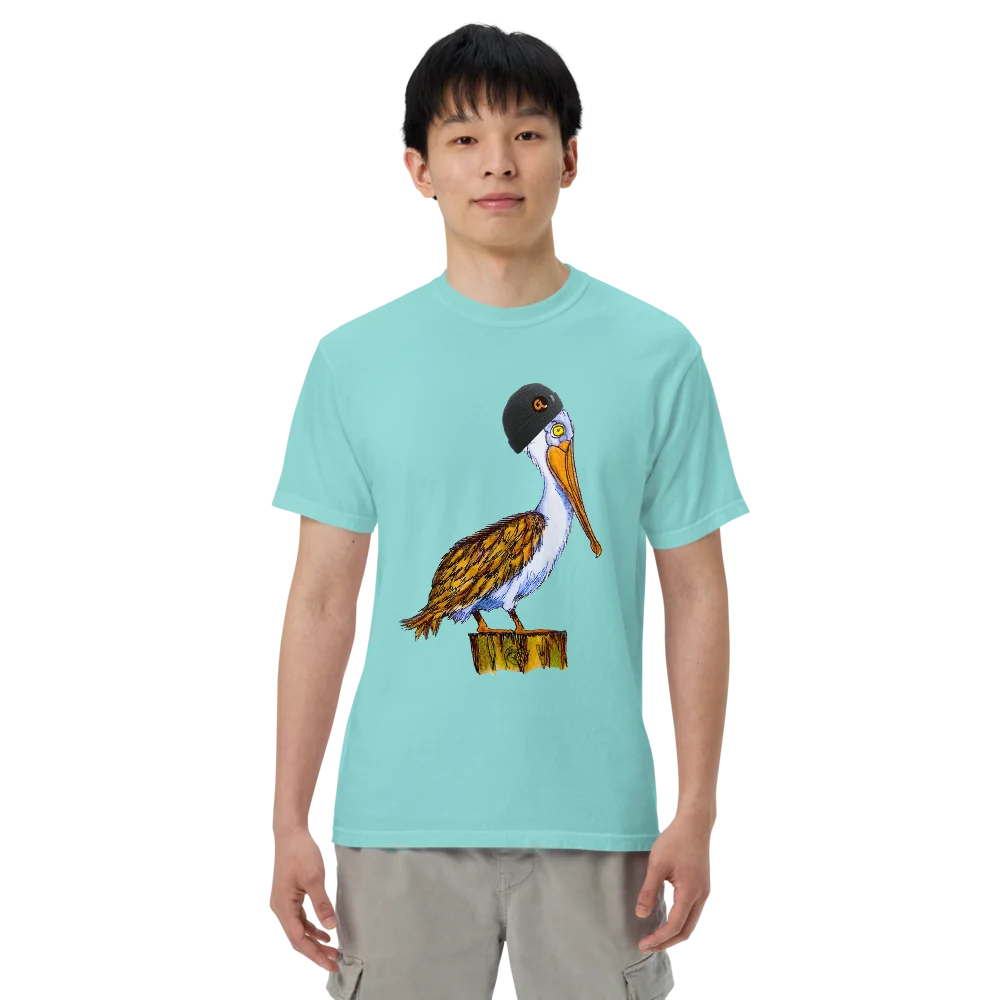
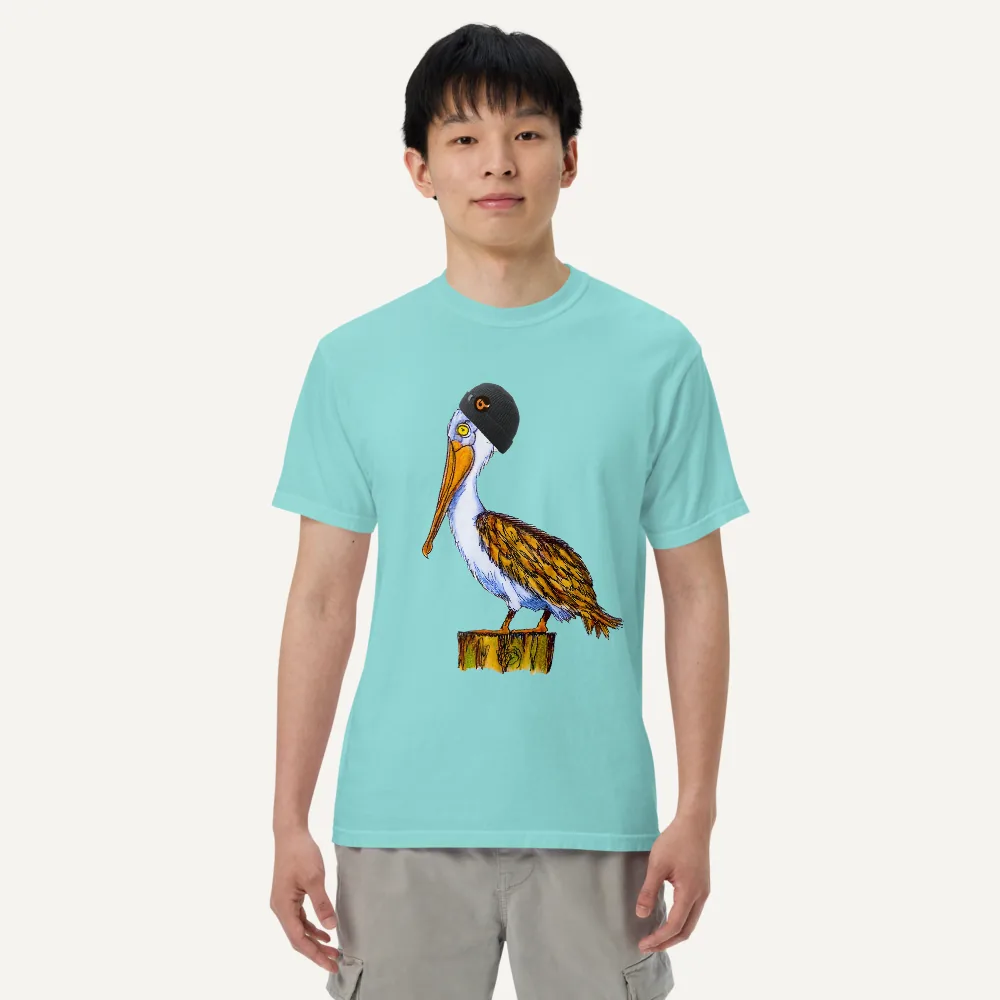
fix(preview): artist previews show the final designs — real Printful mockups (snapback with the fixed star embroidery, star tees, alpaca at 97%, left-facing beanie pelican, crop top) and the new CC0 Day sky

Changed region(s): [[0.403, 0.372, 0.62, 0.682]]

diff --git a/lib/previews.ts b/lib/previews.ts
@@ -68,8 +68,8 @@ export const previews: Preview[] = [
       img(ALPACA, "dusk-tee", 1200, 1129, "All-over tee: the alpaca on a dusk sky", "Dusk all-over tee", true),
       img(ALPACA, "tee-on-model", 1000, 1000, "Classic tee with the alpaca, worn", "Classic tee"),
       img(ALPACA, "tee-flat", 1000, 1000, "Classic tee with the alpaca, laid flat", "Classic tee, flat"),
-      img(ALPACA, "navy-polo", 840, 1000, "Navy polo with an embroidered alpaca on the chest", "Embroidered navy polo"),
-      img(ALPACA, "tee-closeup", 1000, 1000, "Close-up of the alpaca print", "Close-up"),
+      img(ALPACA, "navy-polo", 1000, 1000, "Navy polo with an embroidered alpaca on the chest", "Embroidered navy polo"),
+      img(ALPACA, "tee-closeup", 560, 560, "Close-up of the alpaca print", "Close-up"),
     ],
   },
   {
@@ -82,12 +82,15 @@ export const previews: Preview[] = [
       step(STAR, "coloured", 1094, 1200, "The star coloured in yellow with turquoise stars", "Coloured by MOP"),
     ],
     gallery: [
-      img(STAR, "original-2016-tee", 1200, 1095, "Red tee with the coloured star, as it first sold in 2016", "Original 2016 tee", true),
+      img(STAR, "original-2016-tee", 1000, 1000, "Red tee with the coloured star, as it first sold in 2016", "Original 2016 red tee"),
+      img(STAR, "small-white-tee", 1000, 1000, "White tee with a smaller star on the chest", "Small print tee"),
       img(STAR, "midnight-tee", 1200, 1129, "All-over tee: the star on a starry night sky", "Midnight all-over tee"),
       img(STAR, "golden-hour-tee", 1200, 1129, "All-over tee: the star on a golden-hour sky", "Golden Hour all-over tee"),
       img(STAR, "phone-cases", 1400, 849, "Three phone cases with the star: black, navy and sky blue", "Phone cases", true),
       img(STAR, "art-print", 1300, 890, "Two framed prints of the star, on cream and on navy", "Framed art print"),
-      img(STAR, "dad-hat", 1250, 940, "Navy dad hat with an embroidered star", "Embroidered dad hat"),
+      img(STAR, "snapback-navy", 1000, 1000, "Navy snapback with the embroidered star", "Embroidered snapback"),
+      img(STAR, "snapback-natural", 1000, 1000, "Cream and black snapback with the embroidered star", "Snapback, natural"),
+      img(STAR, "snapback-closeup", 440, 440, "Close-up of the star embroidery on the navy snapback", "Embroidery close-up"),
     ],
   },
   {
@@ -96,10 +99,10 @@ export const previews: Preview[] = [
     headline: "The Beanie",
     line: "The pelican, wearing your beanie.",
     gallery: [
-      img(BEANIE, "day-tee", 1200, 1129, "All-over tee: the beanie pelican on a blue sky", "Day all-over tee", true),
+      img(BEANIE, "day-tee", 1200, 1100, "All-over tee: the beanie pelican on a blue sky", "Day all-over tee", true),
       img(BEANIE, "tee-on-model", 1000, 1000, "Classic tee with the beanie pelican, worn", "Classic tee"),
       img(BEANIE, "crop-top", 1000, 1000, "White crop top with the beanie pelican, worn", "Crop top"),
-      img(BEANIE, "tee-closeup", 1000, 1000, "Close-up of the pelican in the beanie", "Close-up"),
+      img(BEANIE, "tee-closeup", 560, 560, "Close-up of the pelican in the beanie", "Close-up"),
       img(BEANIE, "tee-flat", 1000, 1000, "Classic tee with the beanie pelican, laid flat", "Classic tee, flat"),
     ],
   },
